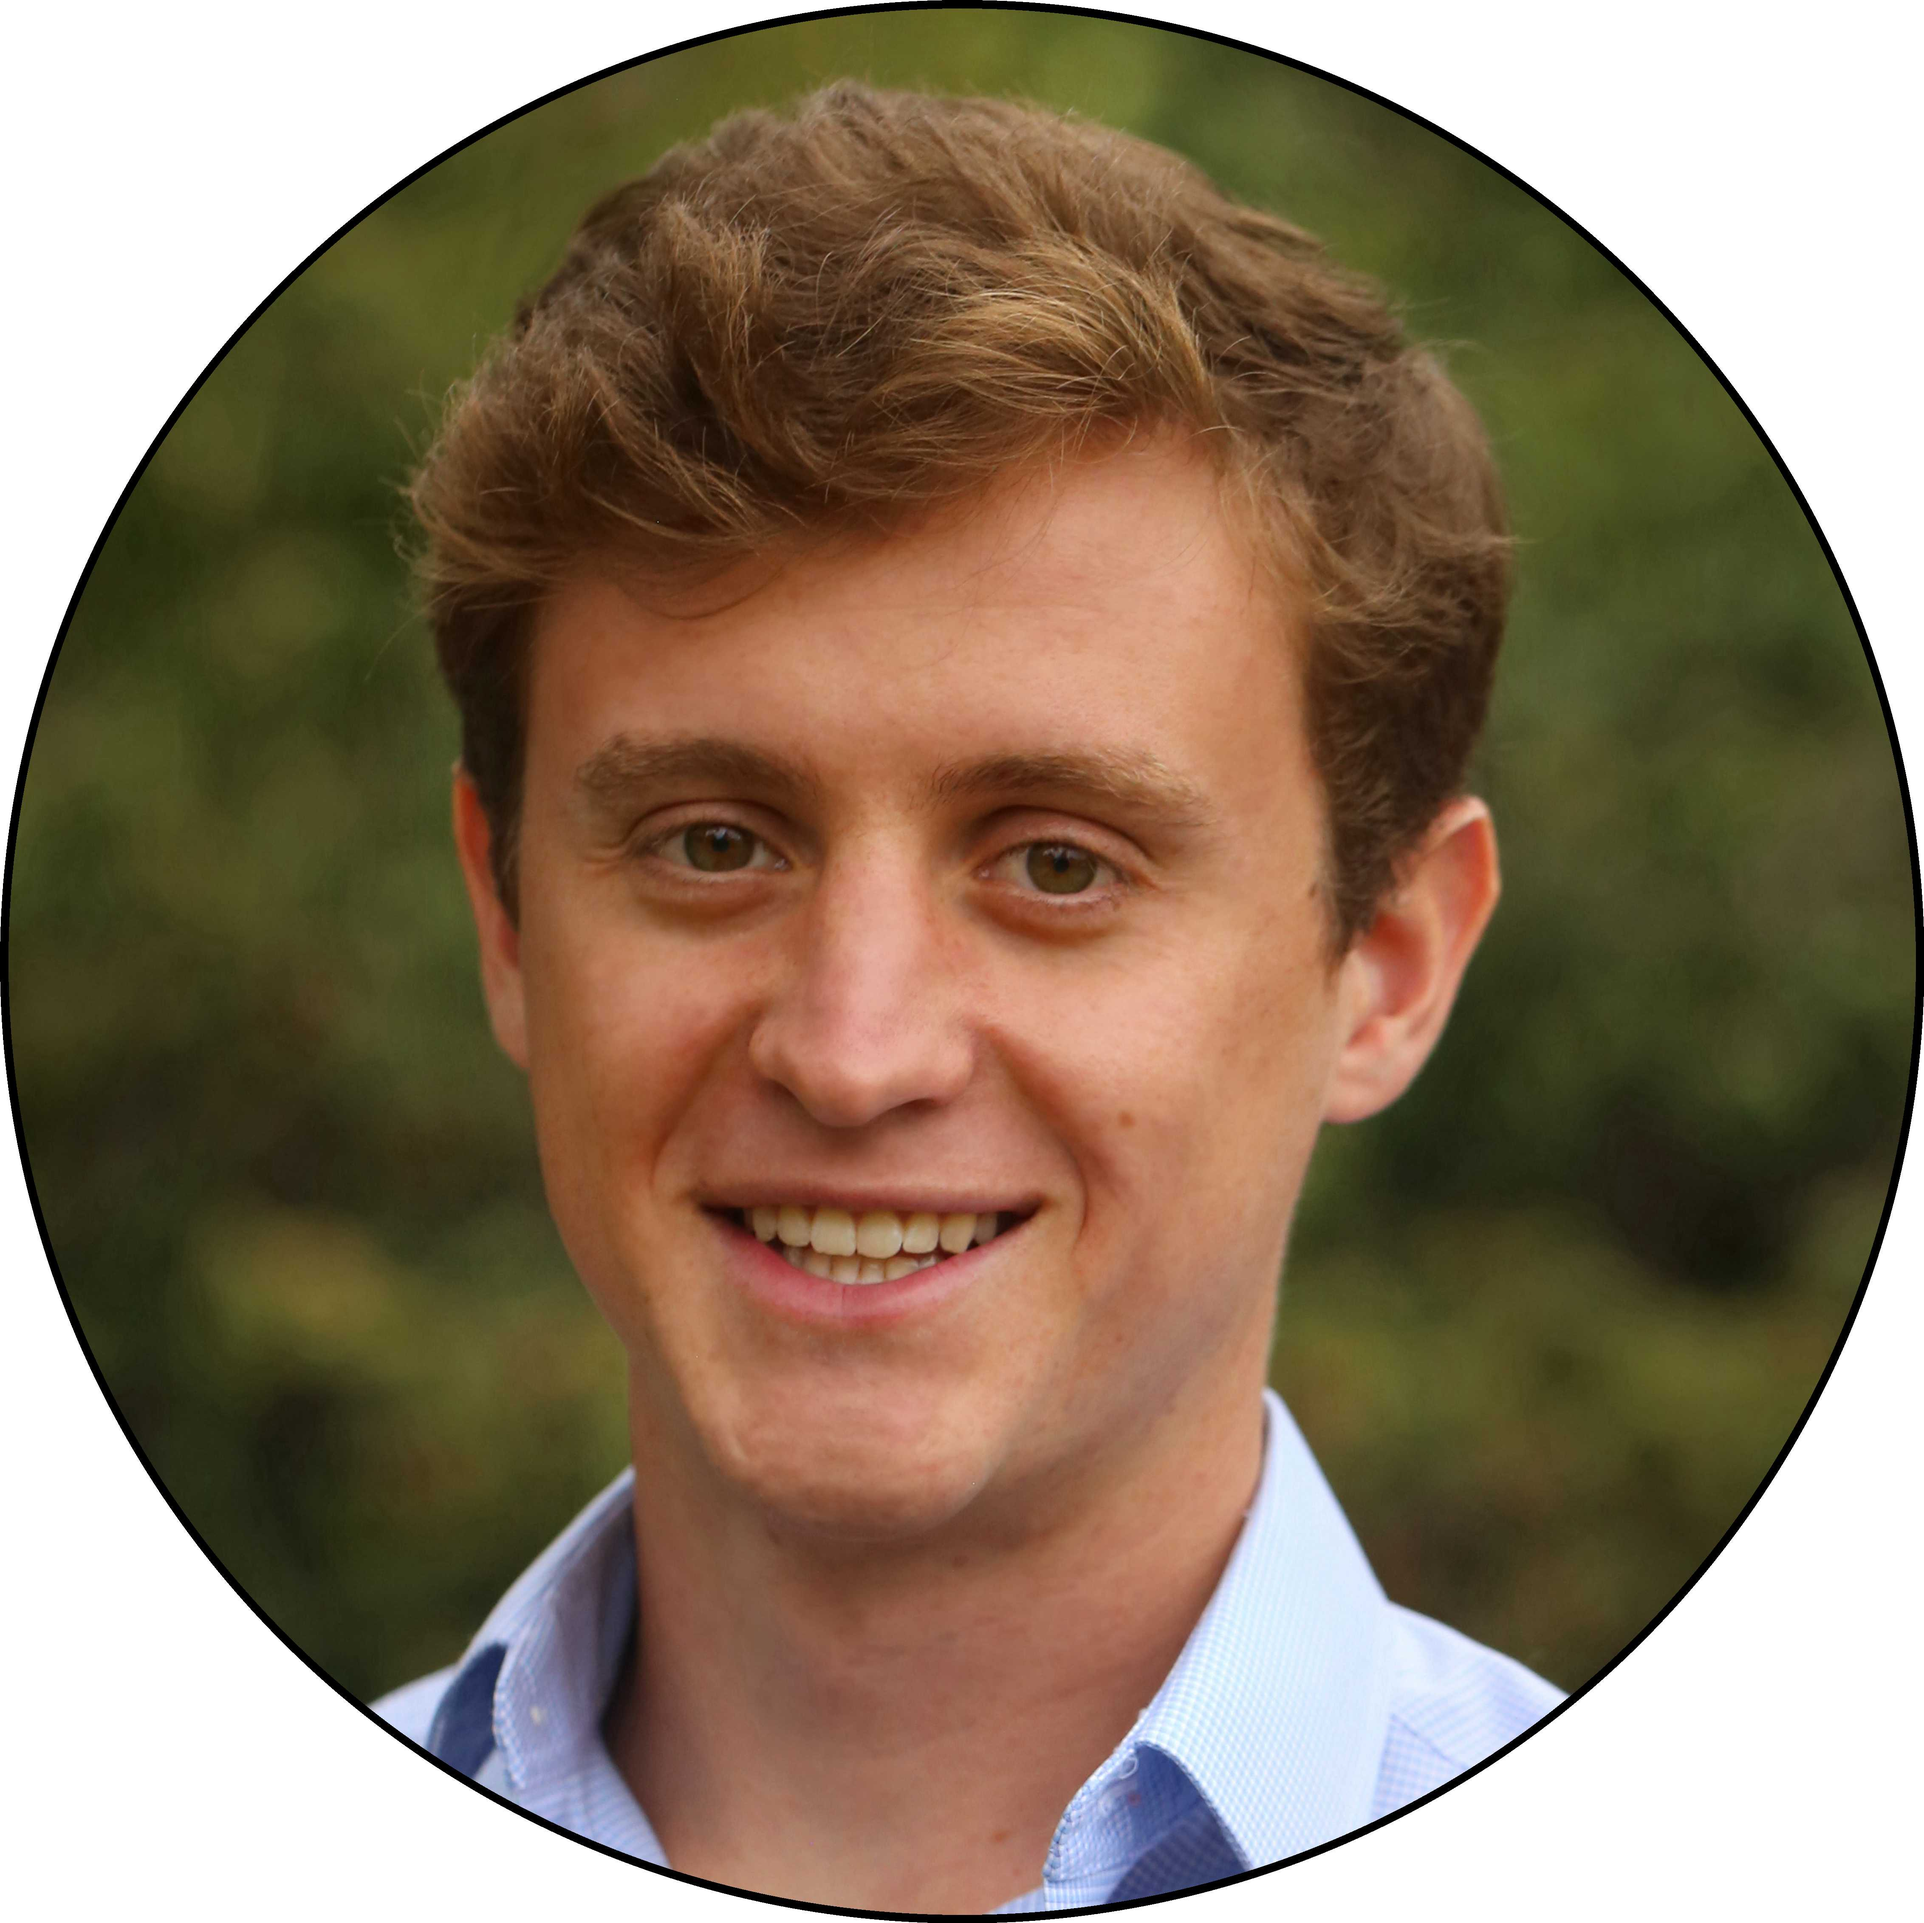
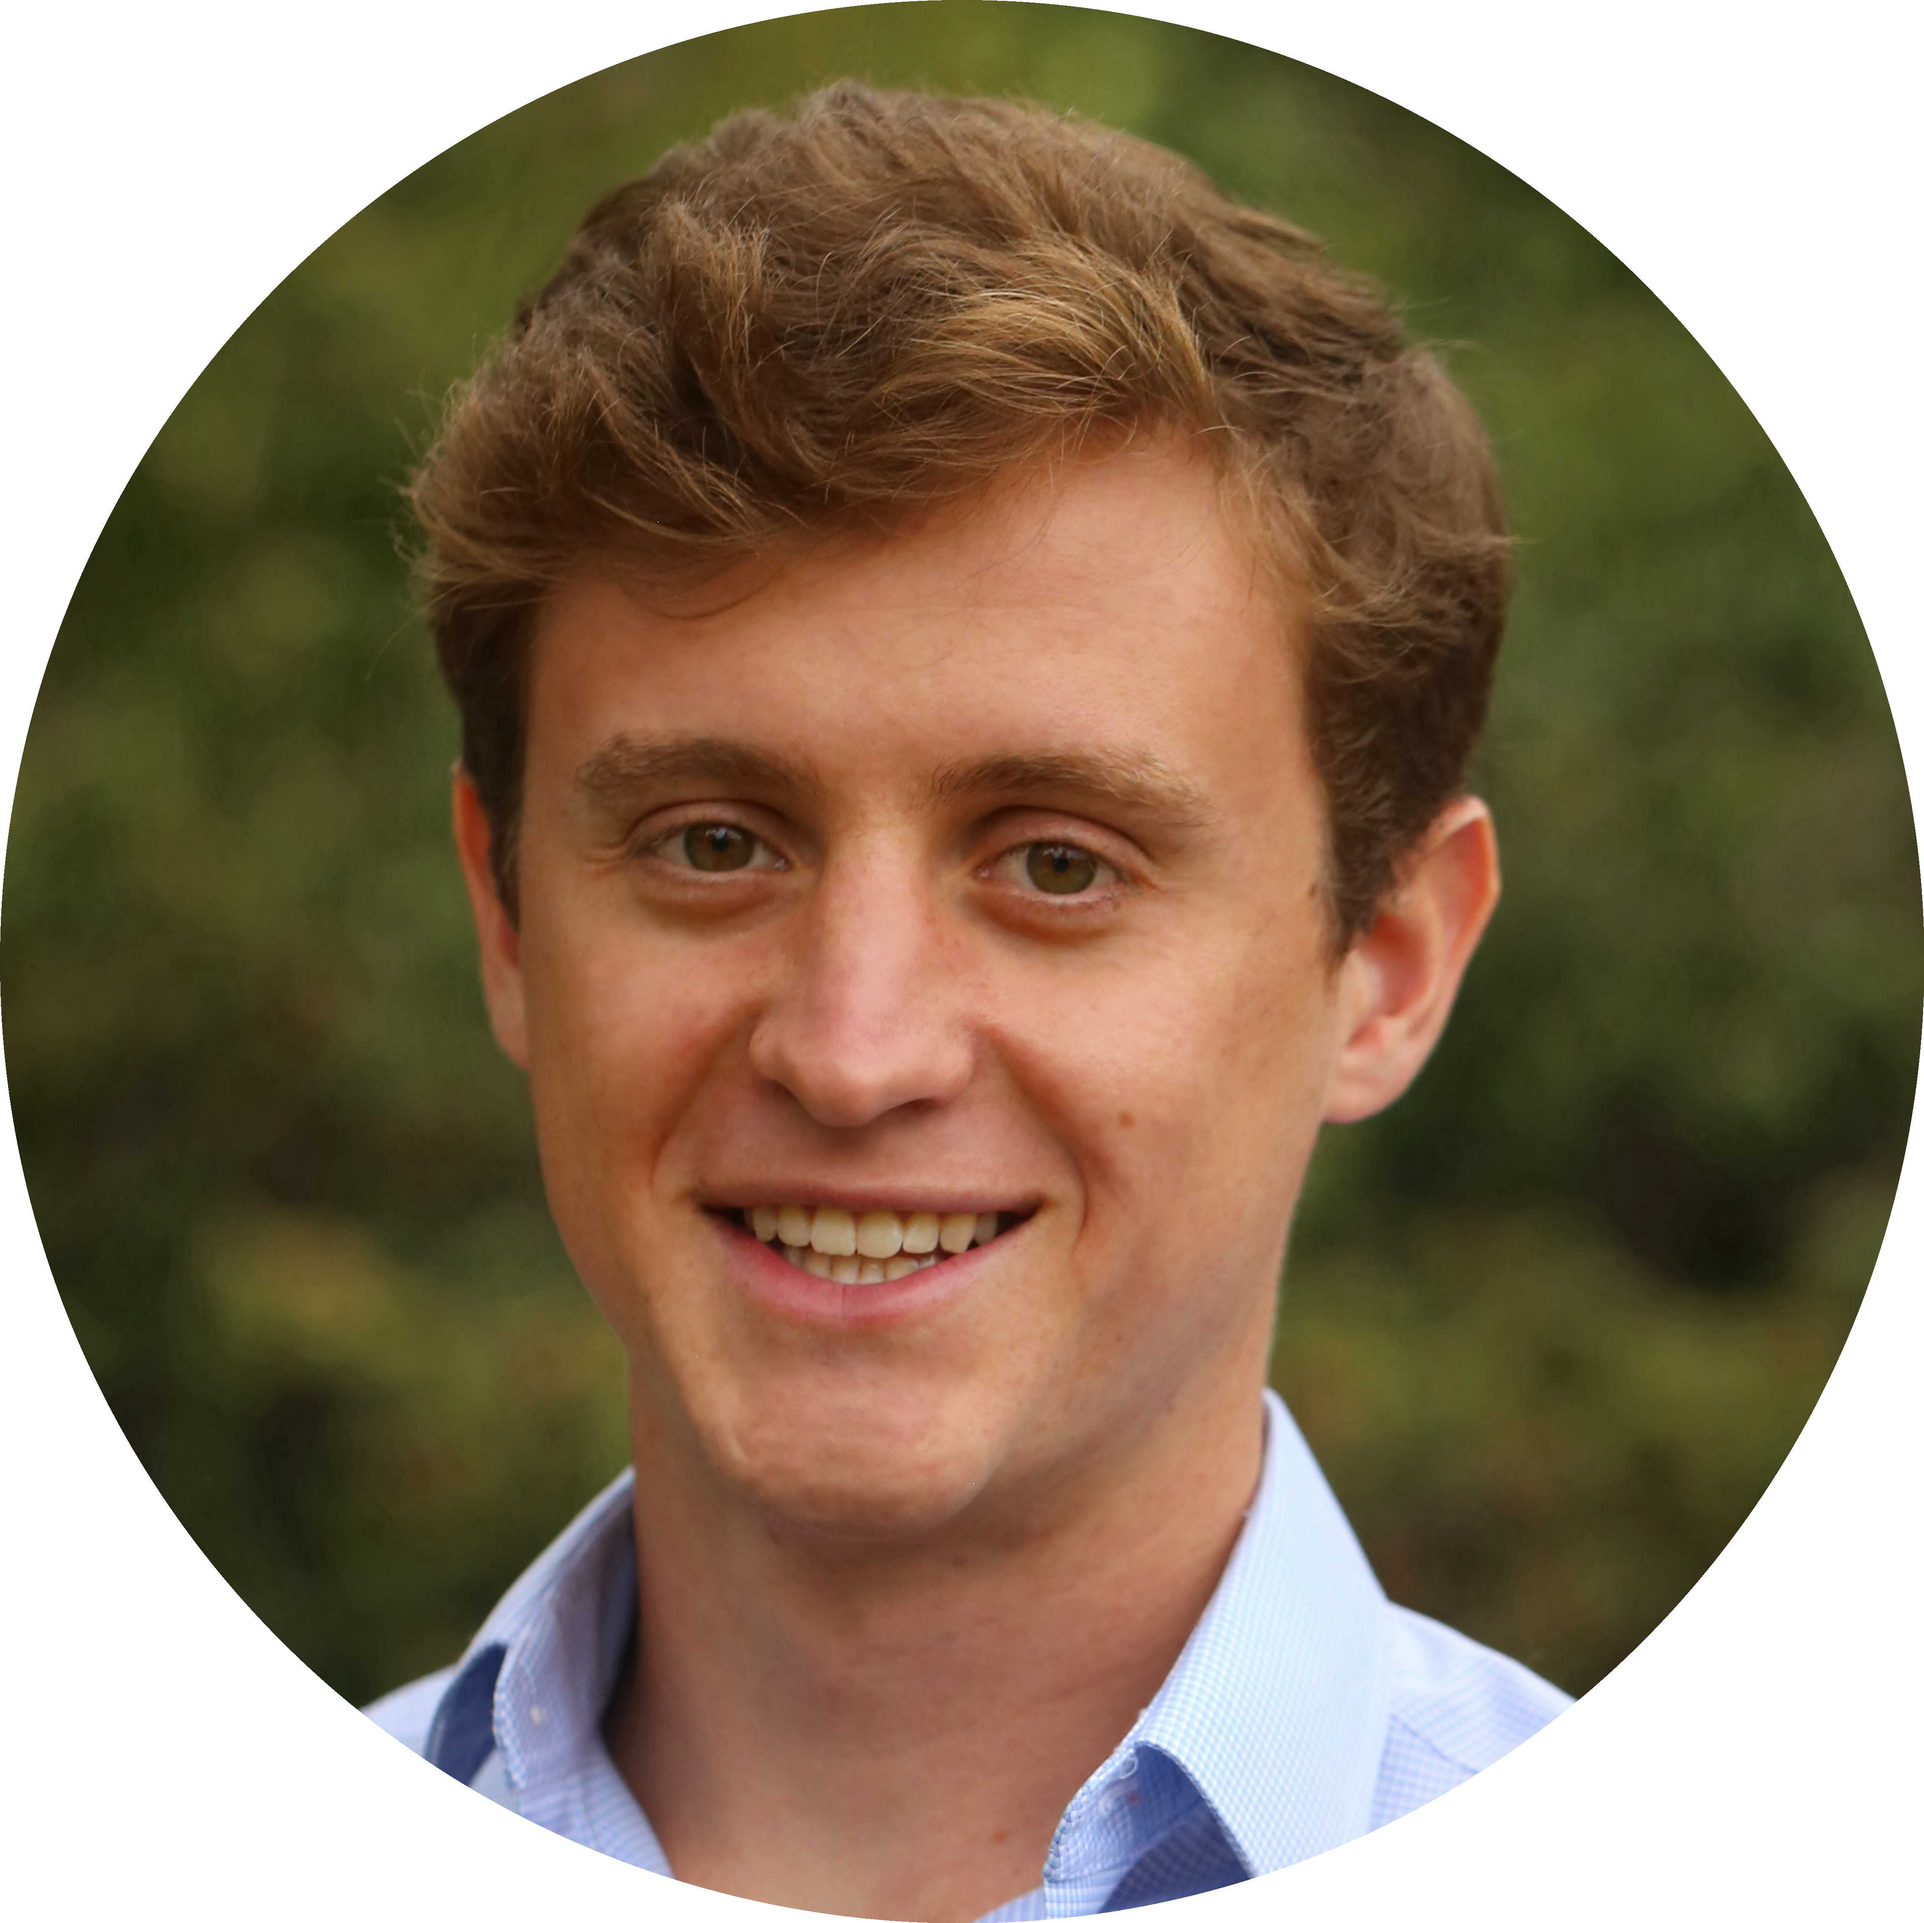
formatting

diff --git a/make-circles.py b/make-circles.py
@@ -26,9 +26,9 @@ for fname in filenames:
     # composite
     img = Image.composite(img, white_img, mask)
 
-    # draw a white solid circle
-    draw = ImageDraw.Draw(img)
-    draw.ellipse((0, 0) + img.size, outline='black', width=20)
+    # # draw a white solid circle
+    # draw = ImageDraw.Draw(img)
+    # draw.ellipse((0, 0) + img.size, outline='black', width=20)
 
     # save to JPEG with reduced quality for smaller file size
     img.convert("RGB").save(write_path, 'JPEG', quality=50)
